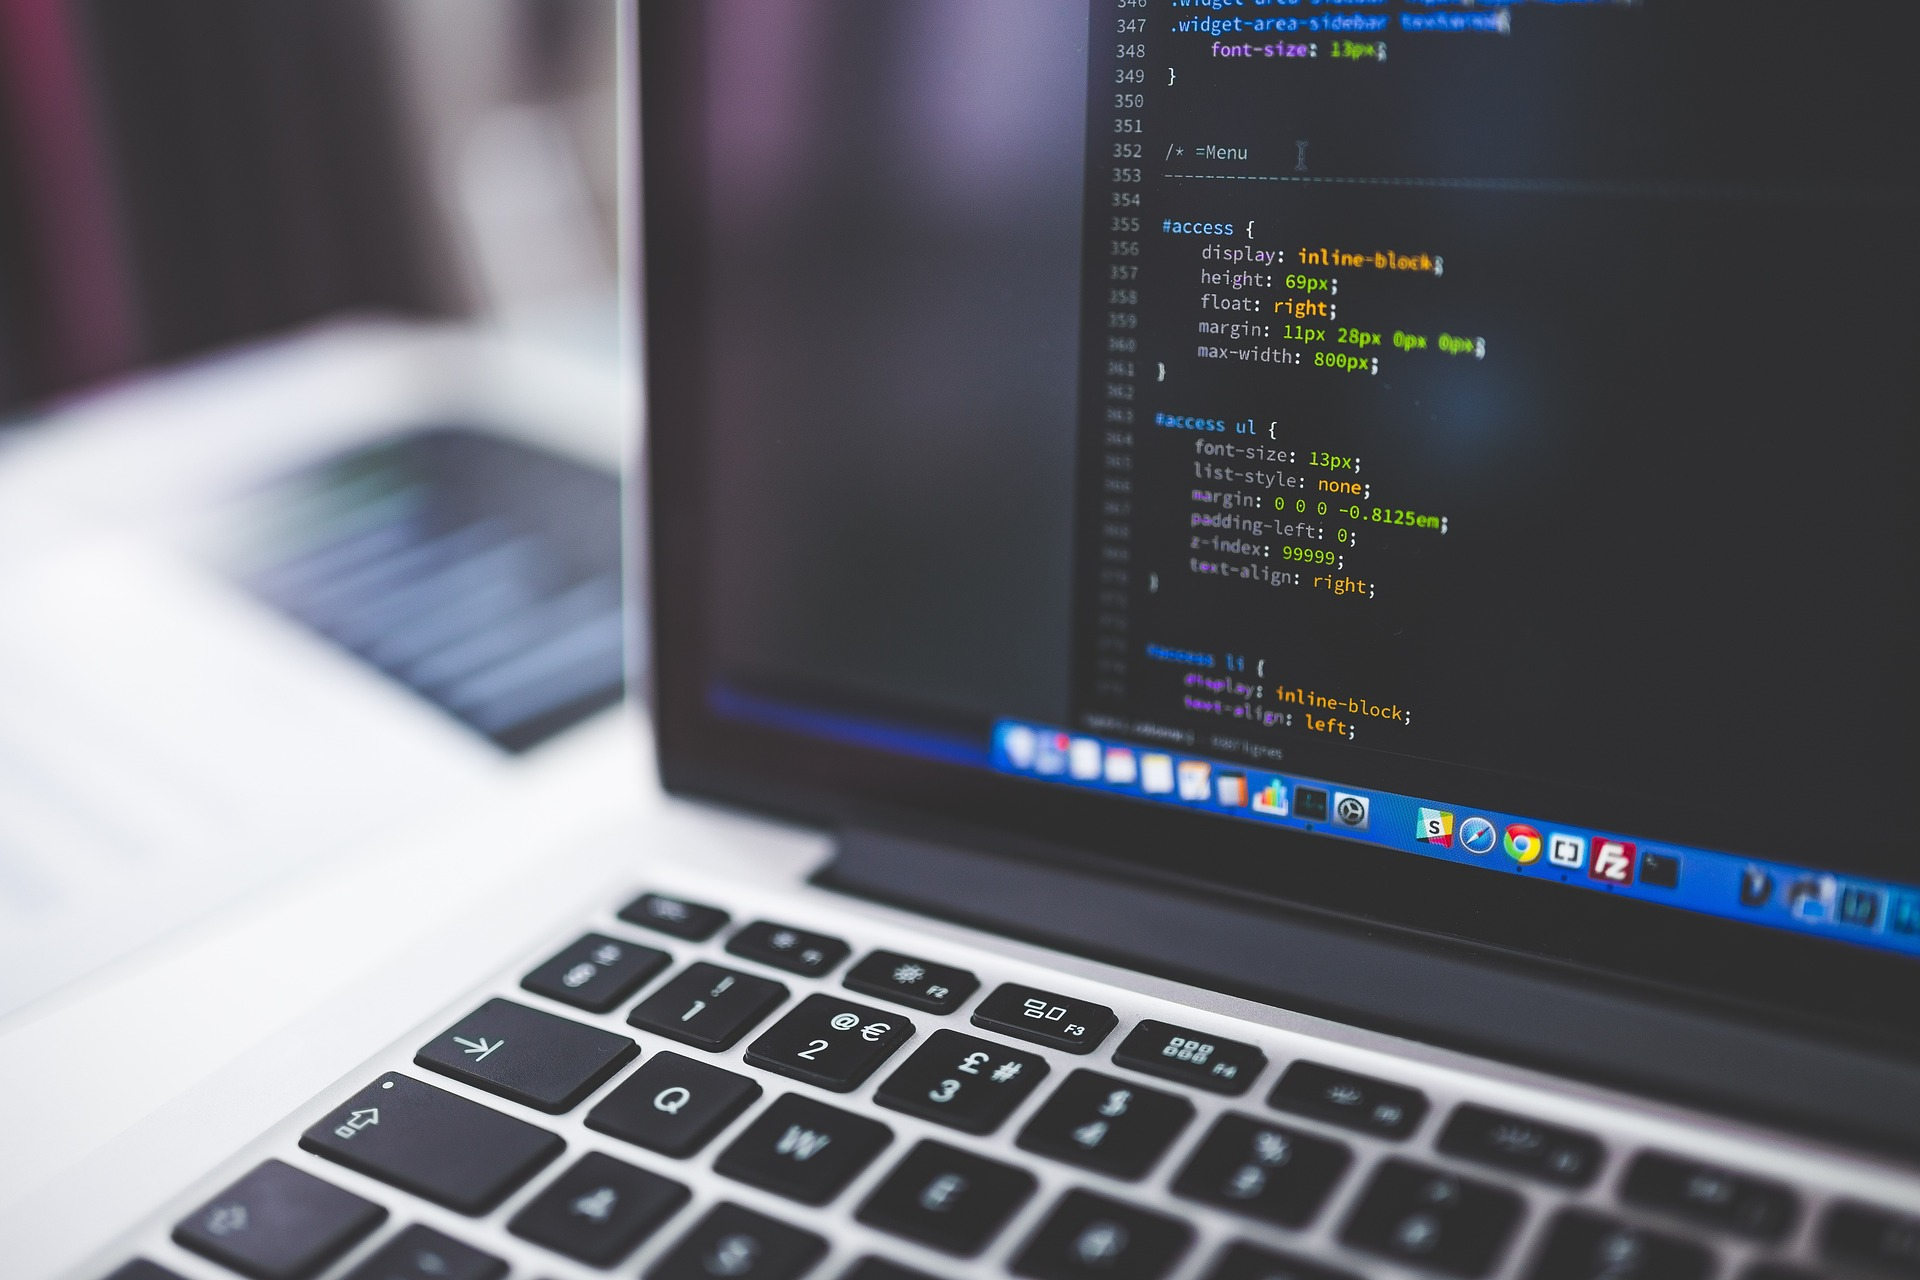
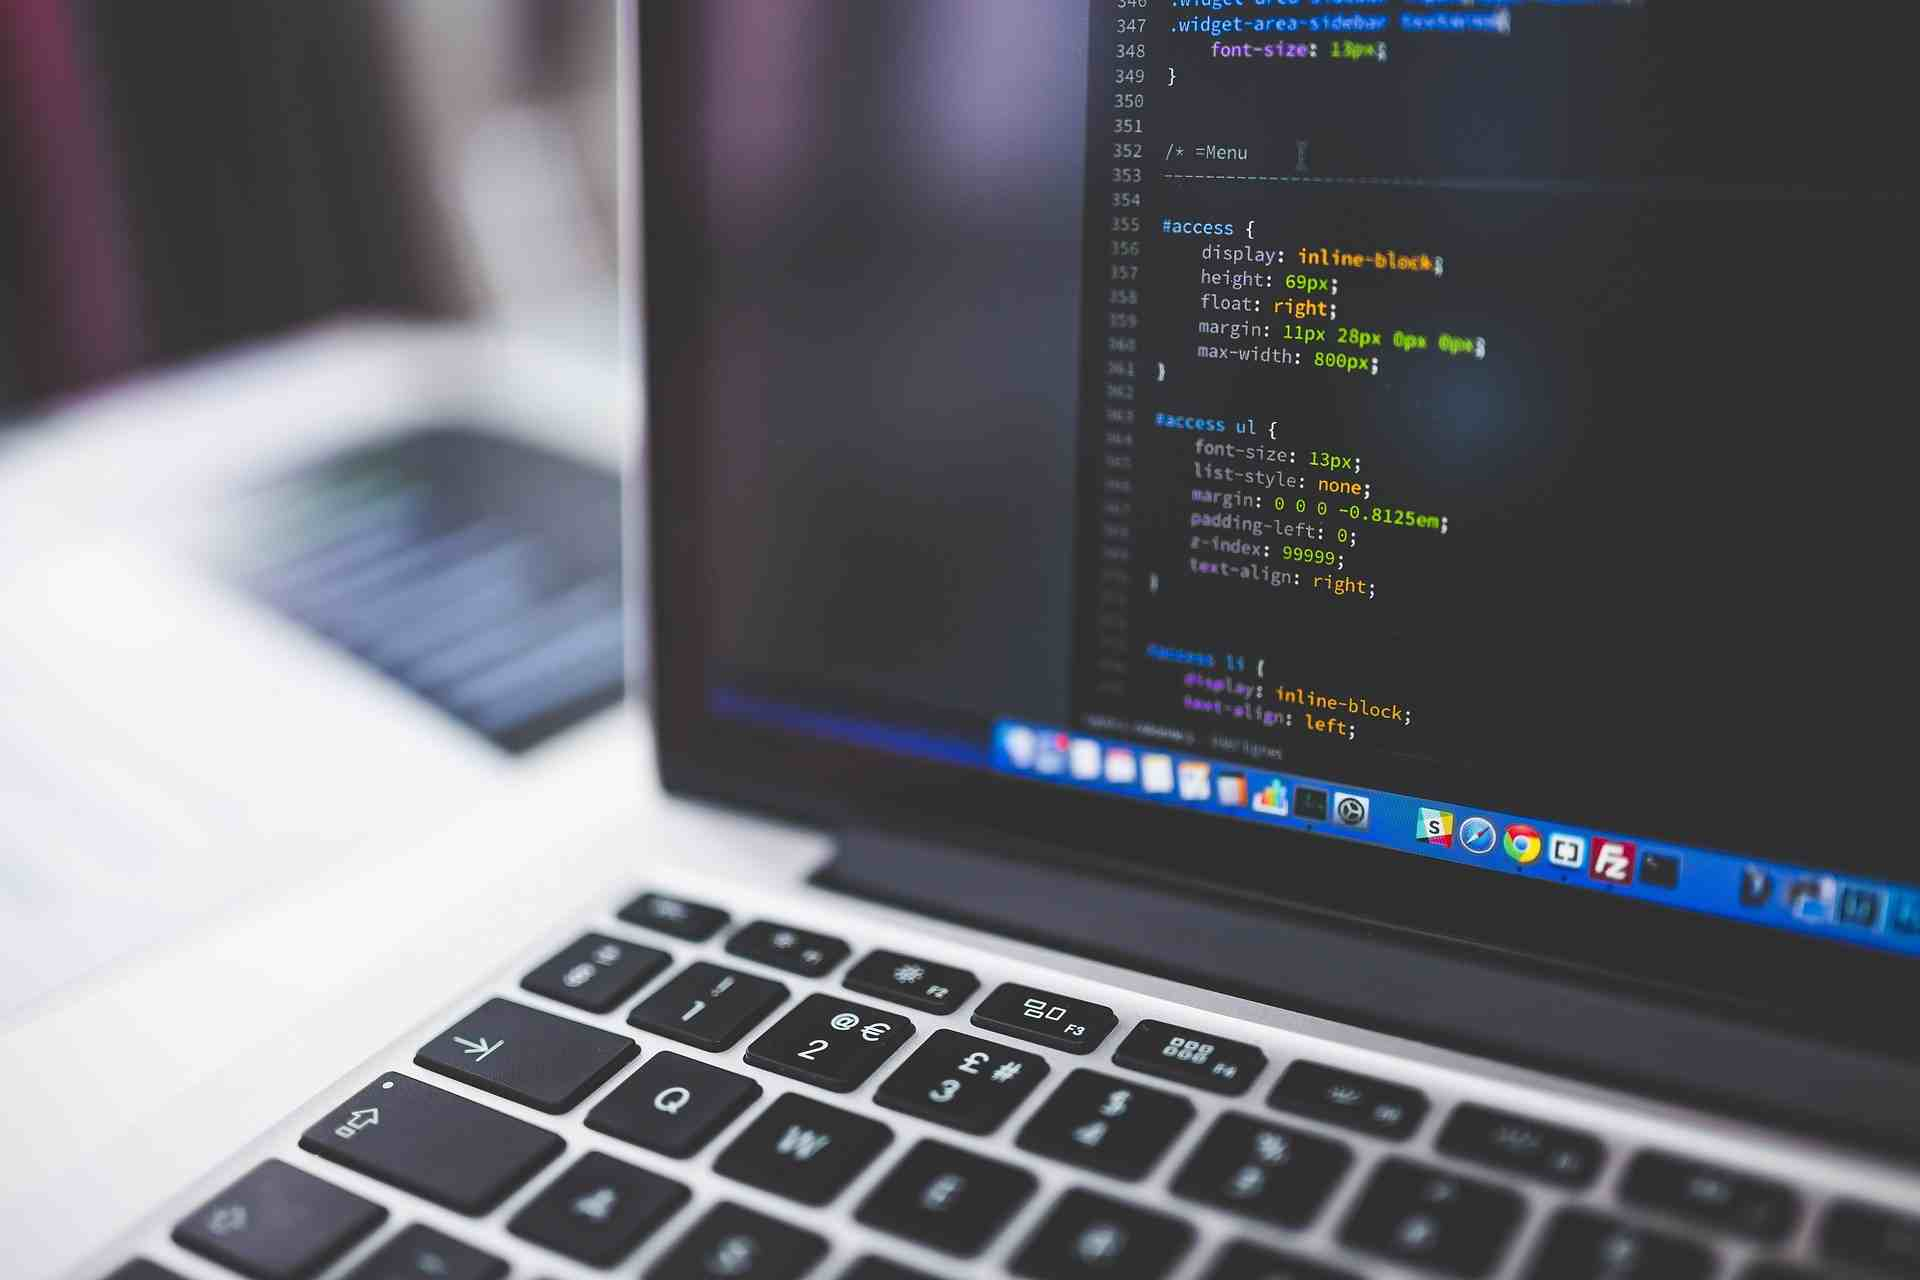
even smaller images

diff --git a/graphics.html b/graphics.html
@@ -208,27 +208,27 @@
                     <div class="slideshow">
                         <div class="slides fade">
                             <div class="numberText"><span>1 / 5</span></div>
-                            <img src="images/nvidialanding.png" alt="Screenshot av nvidia.com" style="width:100%">
+                            <img src="images/nvidialanding.jpg" alt="Screenshot av nvidia.com" style="width:100%">
                             <div class="slideText">Nvidia</div>
                         </div>
                         <div class="slides fade">
                             <div class="numberText"><span>2 / 5</span></div>
-                            <img src="images/amdlanding.png" alt="Screenshot av amd.com" style="width:100%">
+                            <img src="images/amdlanding.jpg" alt="Screenshot av amd.com" style="width:100%">
                             <div class="slideText">AMD</div>
                         </div>
                         <div class="slides fade">
                             <div class="numberText"><span>3 / 5</span></div>
-                            <img src="images/vklanding.png" alt="Screenshot av vk.se" style="width:100%">
+                            <img src="images/vklanding.jpg" alt="Screenshot av vk.se" style="width:100%">
                             <div class="slideText">Västerbottens-Kuriren</div>
                         </div>
                         <div class="slides fade">
                             <div class="numberText"><span>4 / 5</span></div>
-                            <img src="images/svtlanding.png" alt="Screenshot av svt.se" style="width:100%">
+                            <img src="images/svtlanding.jpg" alt="Screenshot av svt.se" style="width:100%">
                             <div class="slideText">Sveriges Television (SVT)</div>
                         </div>
                         <div class="slides fade">
                             <div class="numberText"><span>5 / 5</span></div>
-                            <img src="images/techradarlanding.png" alt="Screenshot av vk.se" style="width:100%">
+                            <img src="images/techradarlanding.jpg" alt="Screenshot av vk.se" style="width:100%">
                             <div class="slideText">TechRadar</div>
                         </div>
                         <a class="prev" onclick="plusSlides(-1)">&#10094;</a>
